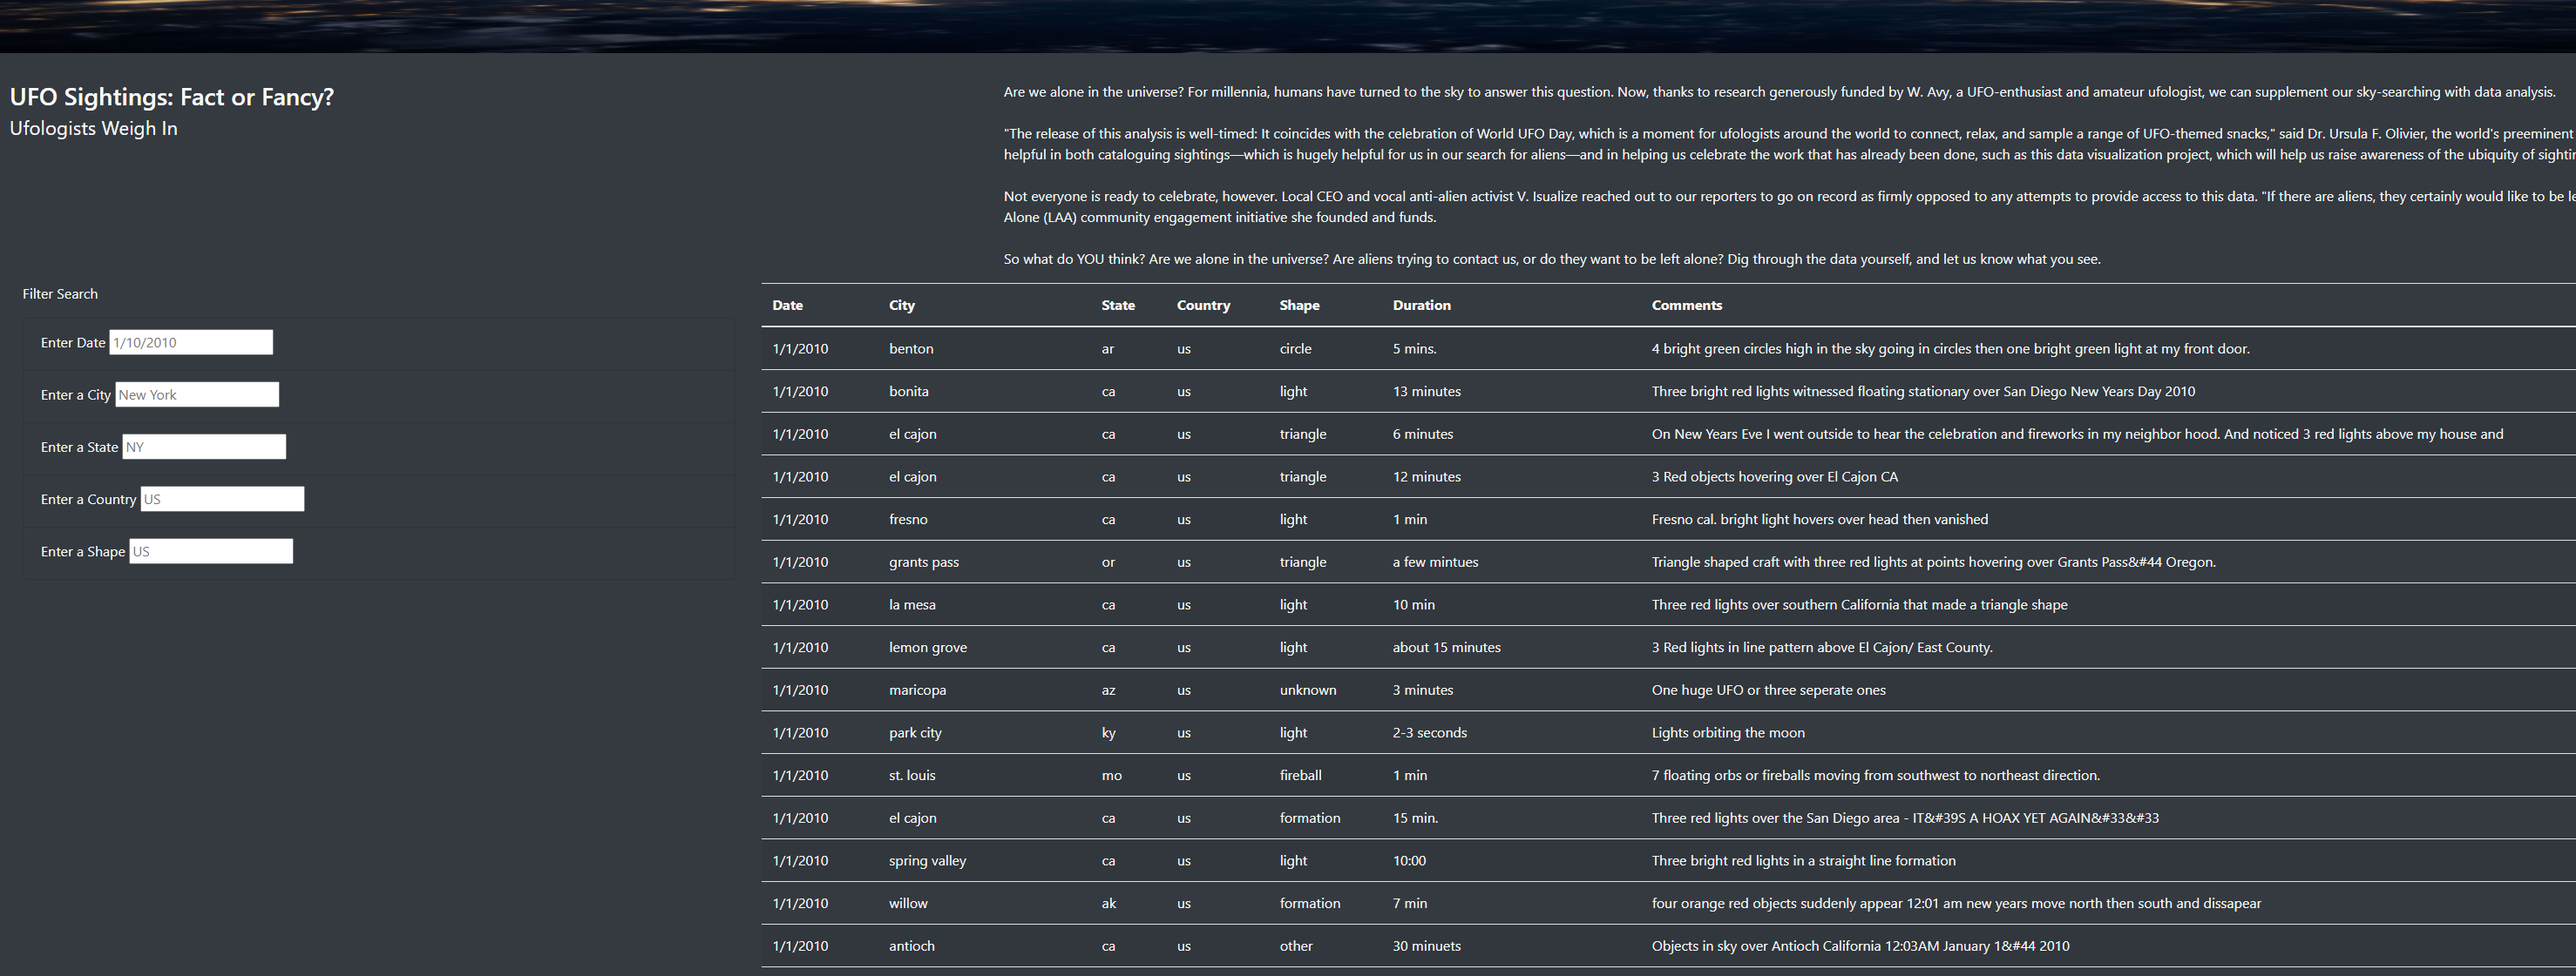
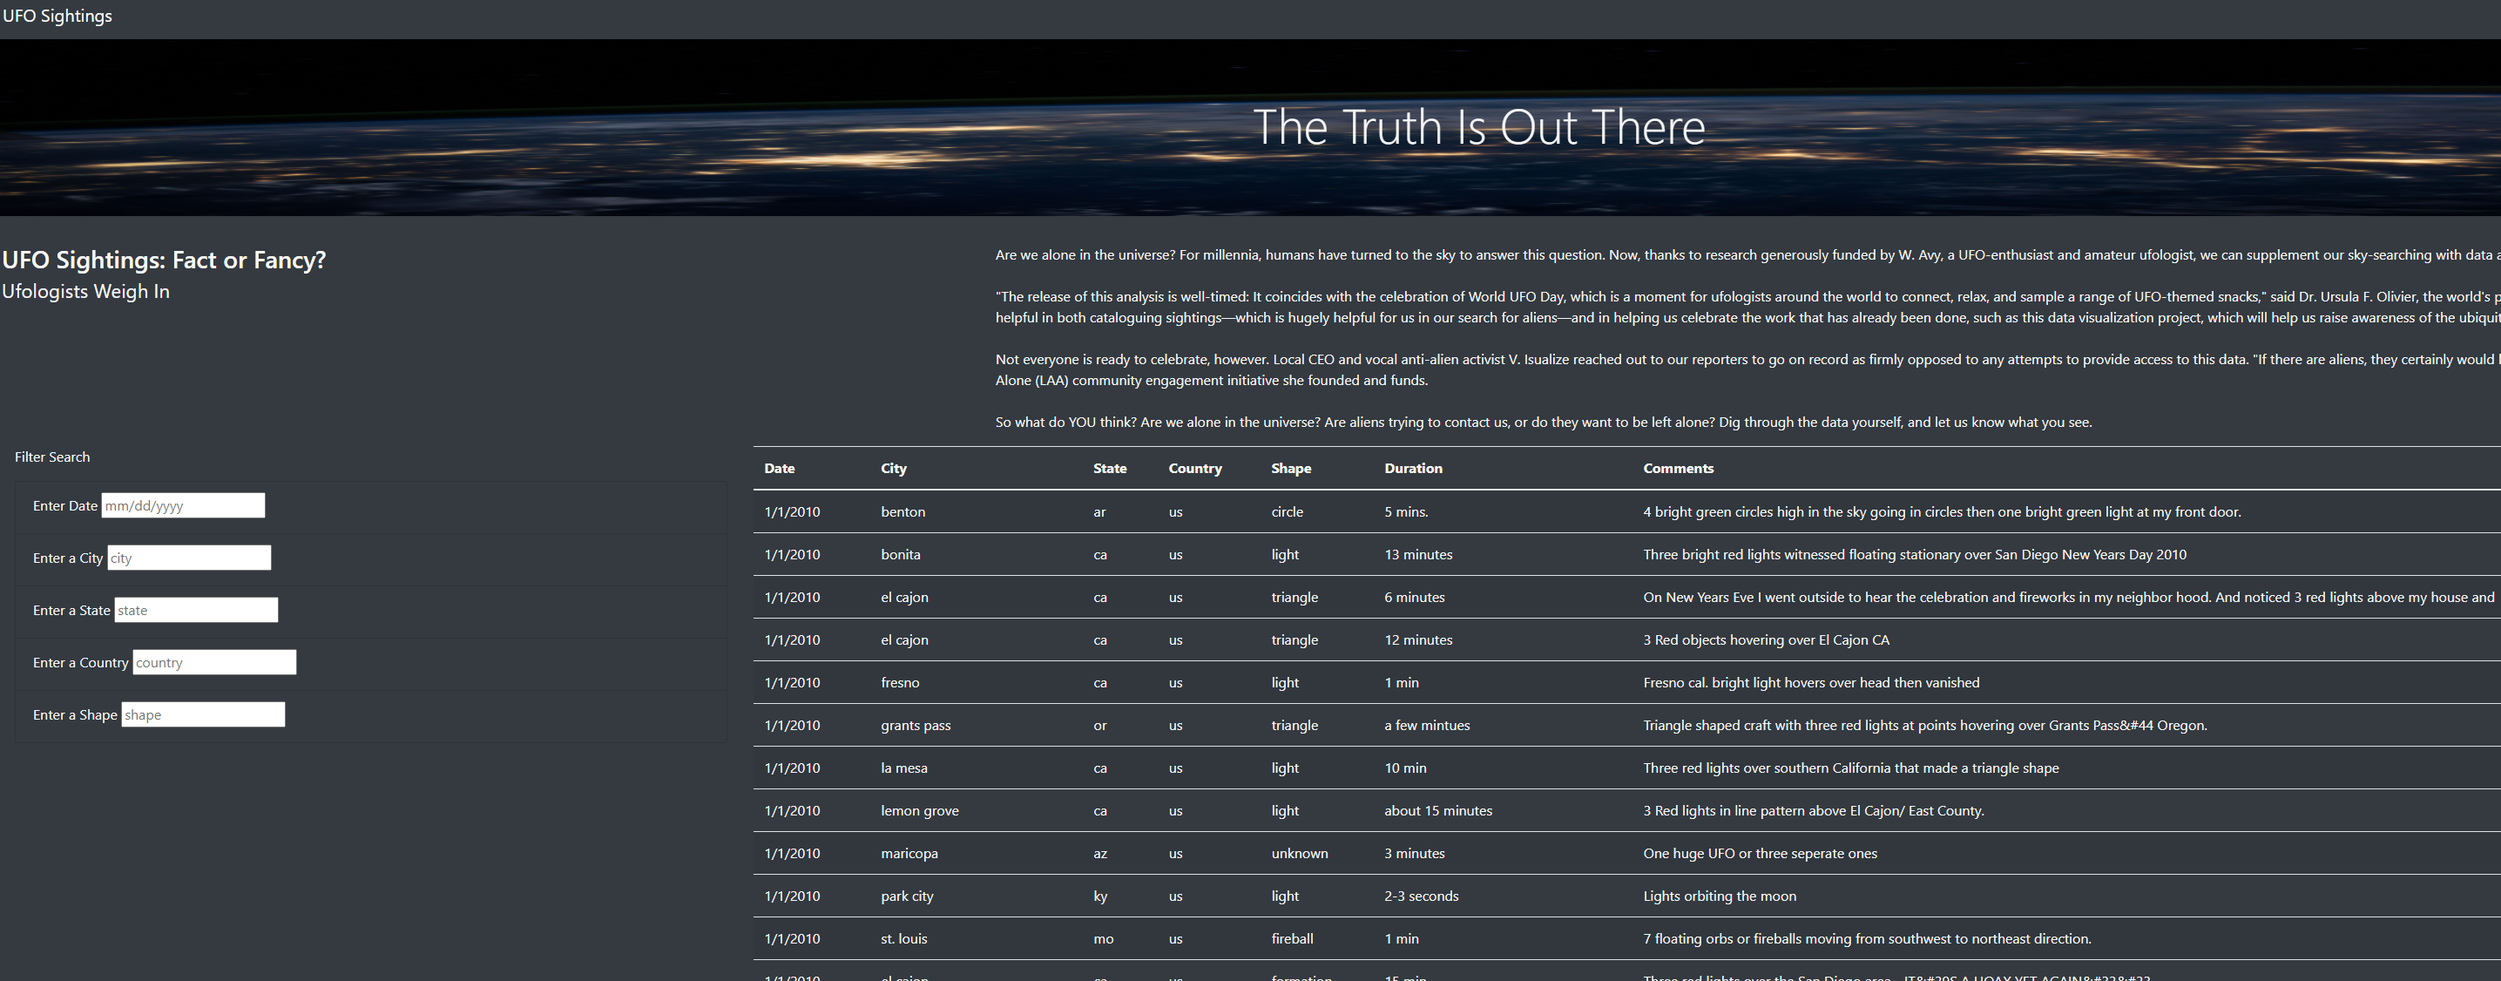
changed images, changed default inputs on html not to confuse viewer of instructions

diff --git a/index.html b/index.html
@@ -41,23 +41,23 @@
                     <ul class="list-group bg-dark">               
                         <li class="list-group-item bg-dark">
                             <label for="date">Enter Date</label>
-                            <input type="text" placeholder="1/10/2010" id="datetime" />
+                            <input type="text" placeholder="mm/dd/yyyy" id="datetime" />
                         </li>
                         <li class="list-group-item bg-dark">
                             <label for="City">Enter a City</label>
-                            <input type="text" placeholder="New York" id="city" />
+                            <input type="text" placeholder="city" id="city" />
                         </li>
                         <li class="list-group-item bg-dark">
                             <label for="State">Enter a State</label>
-                            <input type="text" placeholder="NY" id="state" />
+                            <input type="text" placeholder="state" id="state" />
                         </li>
                         <li class="list-group-item bg-dark">
                             <label for="Country">Enter a Country</label>
-                            <input type="text" placeholder="US" id="country" />
+                            <input type="text" placeholder="country" id="country" />
                         </li>
                         <li class="list-group-item bg-dark">
                             <label for="Shape">Enter a Shape</label>
-                            <input type="text" placeholder="US" id="shape" />
+                            <input type="text" placeholder="shape" id="shape" />
                         </li>
                     </ul>
                 </form>               
